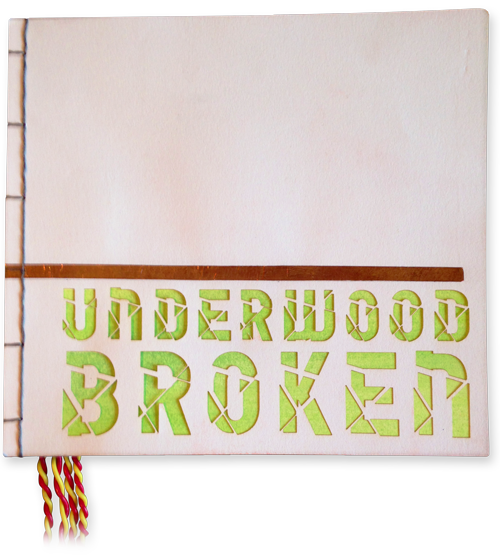
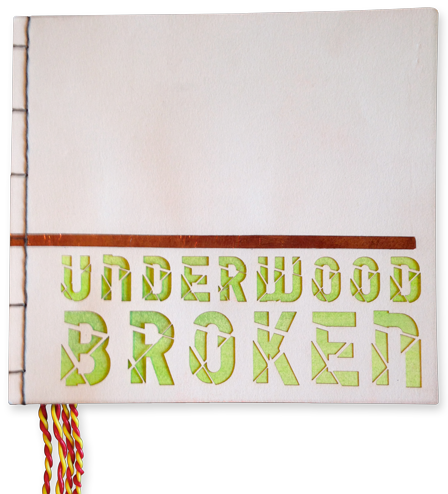
Updated protoype section imagery

Changed region(s): [[0.0625, 0.4858, 0.9375, 1.0], [0.0, 0.0304, 0.0938, 0.8198]]

diff --git a/underwood-specimen/index.html b/underwood-specimen/index.html
@@ -24,7 +24,7 @@ description: type design, book design, software design
   </section>
 
   <img src="/images/prototype.png" alt="Prototype of font specimen" id="prototype-image">
-
+  <img src="/images/prototype-cropped.png" alt="Prototype of font specimen laying on it's side" id="prototype-cropped">
   <section id="capacitive">
     <h2>Capacitive Sensing</h2>
     <h3>The down-and-dirty guide for non-engineers.</h3>

diff --git a/_scss/underwood-style.scss b/_scss/underwood-style.scss
@@ -30,6 +30,14 @@ main {
   width:100%;
   max-width:28em;
   text-align:center;
+  padding-bottom:0;
+  margin-bottom:-0.5em;
+}
+
+#prototype-cropped {
+  width:100%;
+  padding:0;
+  margin:0;
 }
 
 #capacitive {
